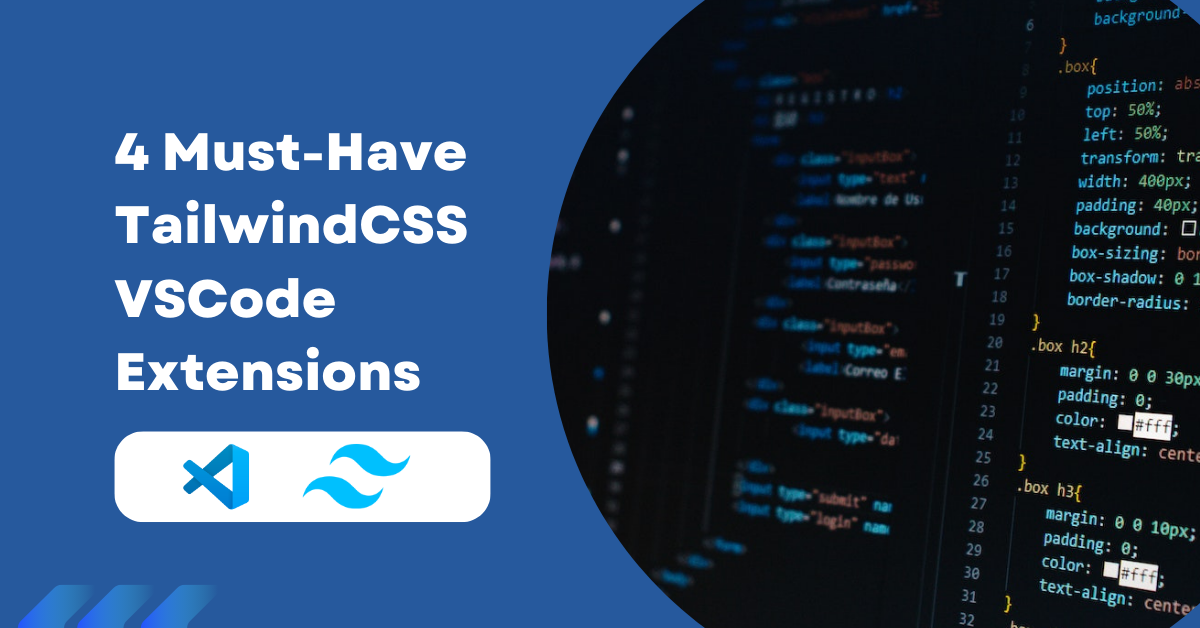
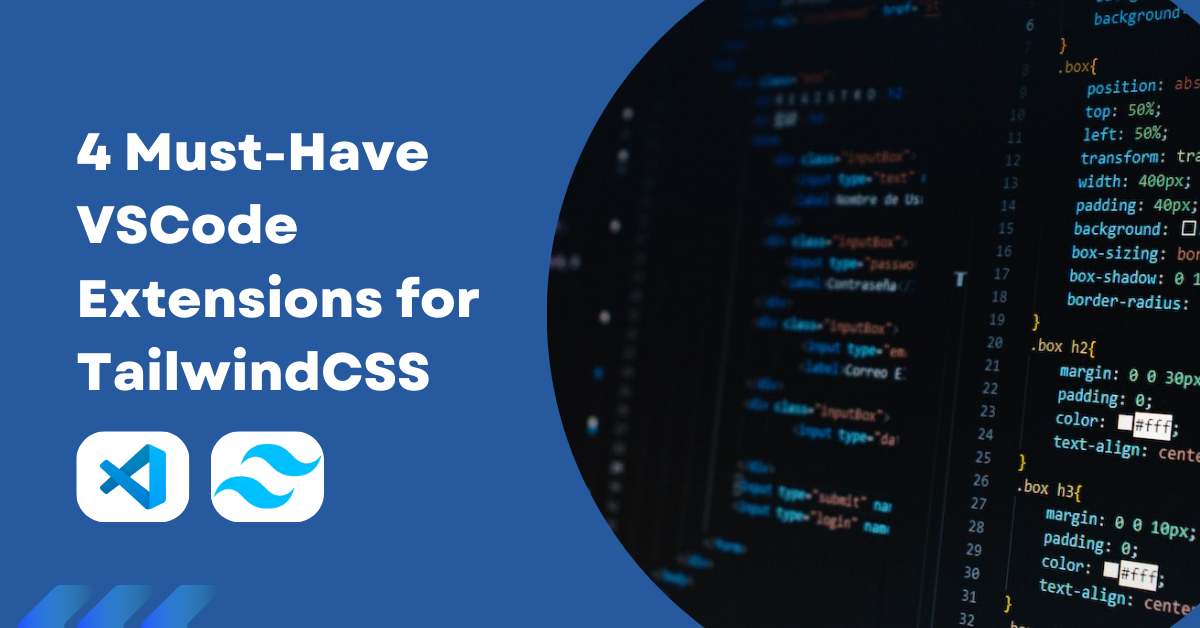
new thumbnail

diff --git a/_posts/2023-09-17-VSC-TailwindCSS.md b/_posts/2023-09-17-VSC-TailwindCSS.md
@@ -1,7 +1,7 @@
 ---
 layout: post
-title: Boost Your Efficiency - 4 Must-Have TailwindCSS VSCode Extensions
-blogtitle: Boost Your Efficiency - 4 Must-Have TailwindCSS VSCode Extensions
+title: Boost Your Efficiency - 4 Must-Have VSCode Extensions for TailwindCSS
+blogtitle: Boost Your Efficiency - 4 Must-Have VSCode Extensions for TailwindCSS
 gist: Are you using Visual Studio Code and Tailwind? Check out x extensions to boost your productivity
 author: Christoph
 category: tailwind
